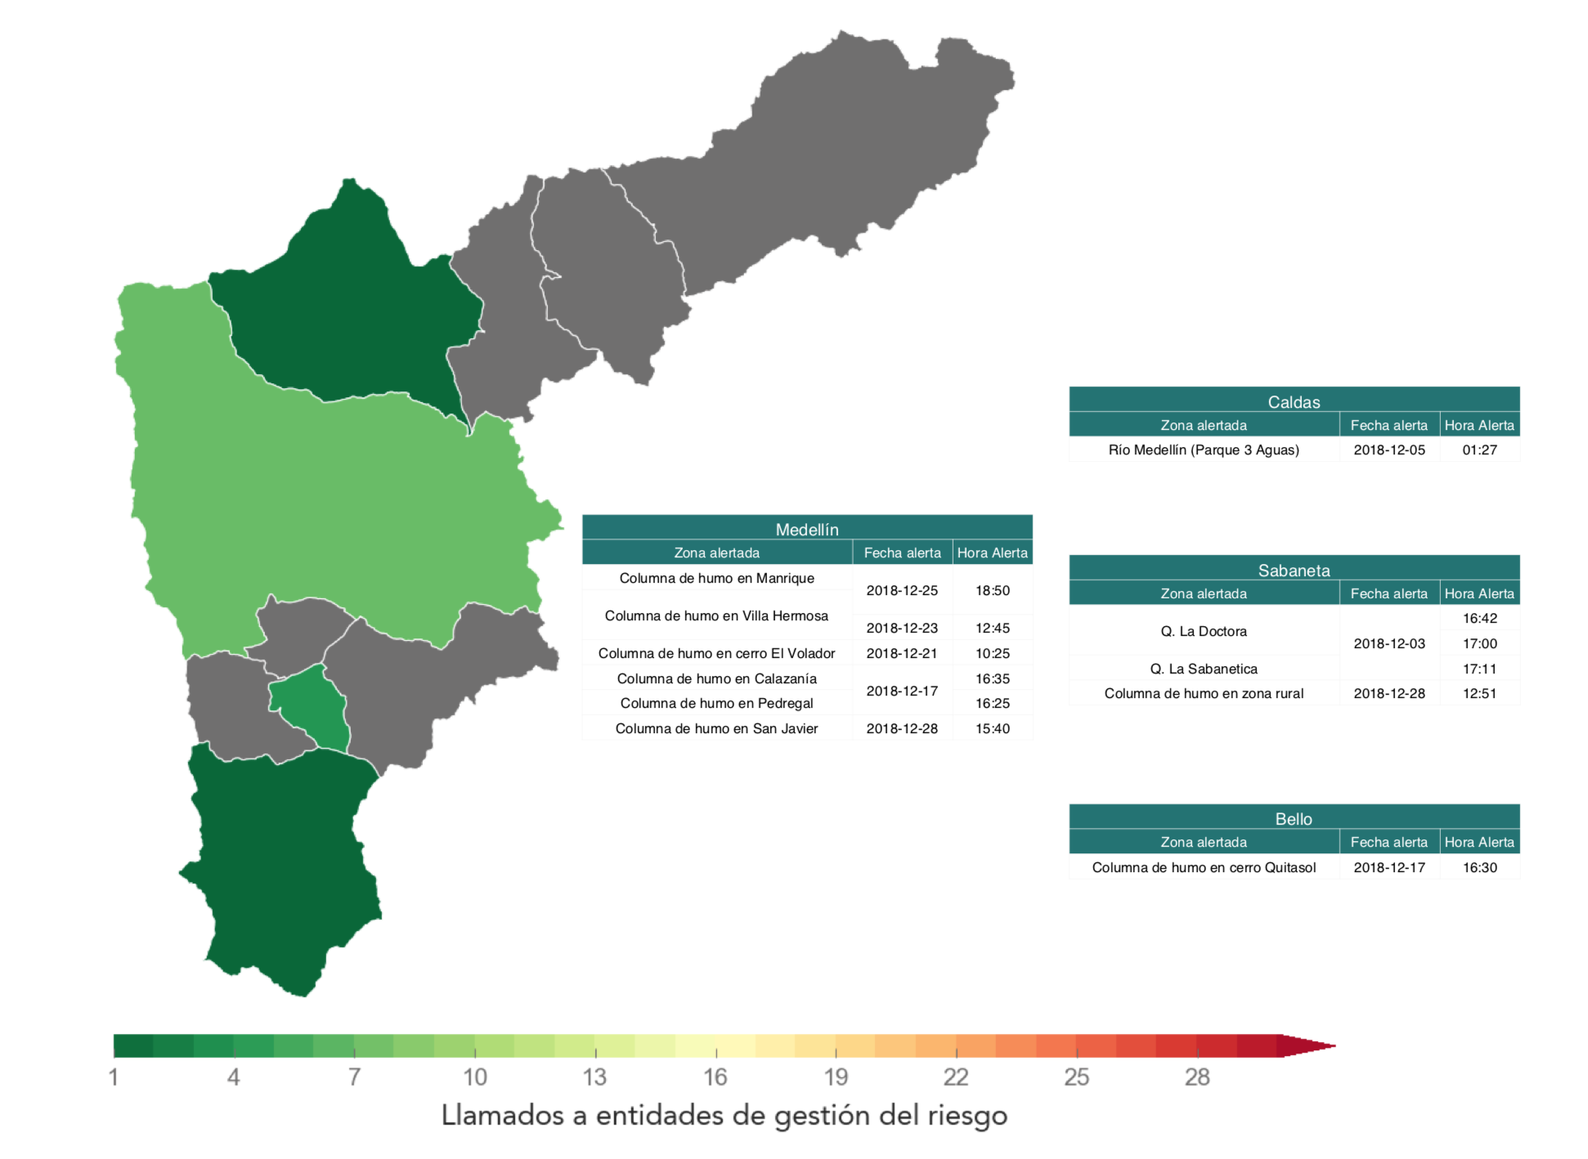
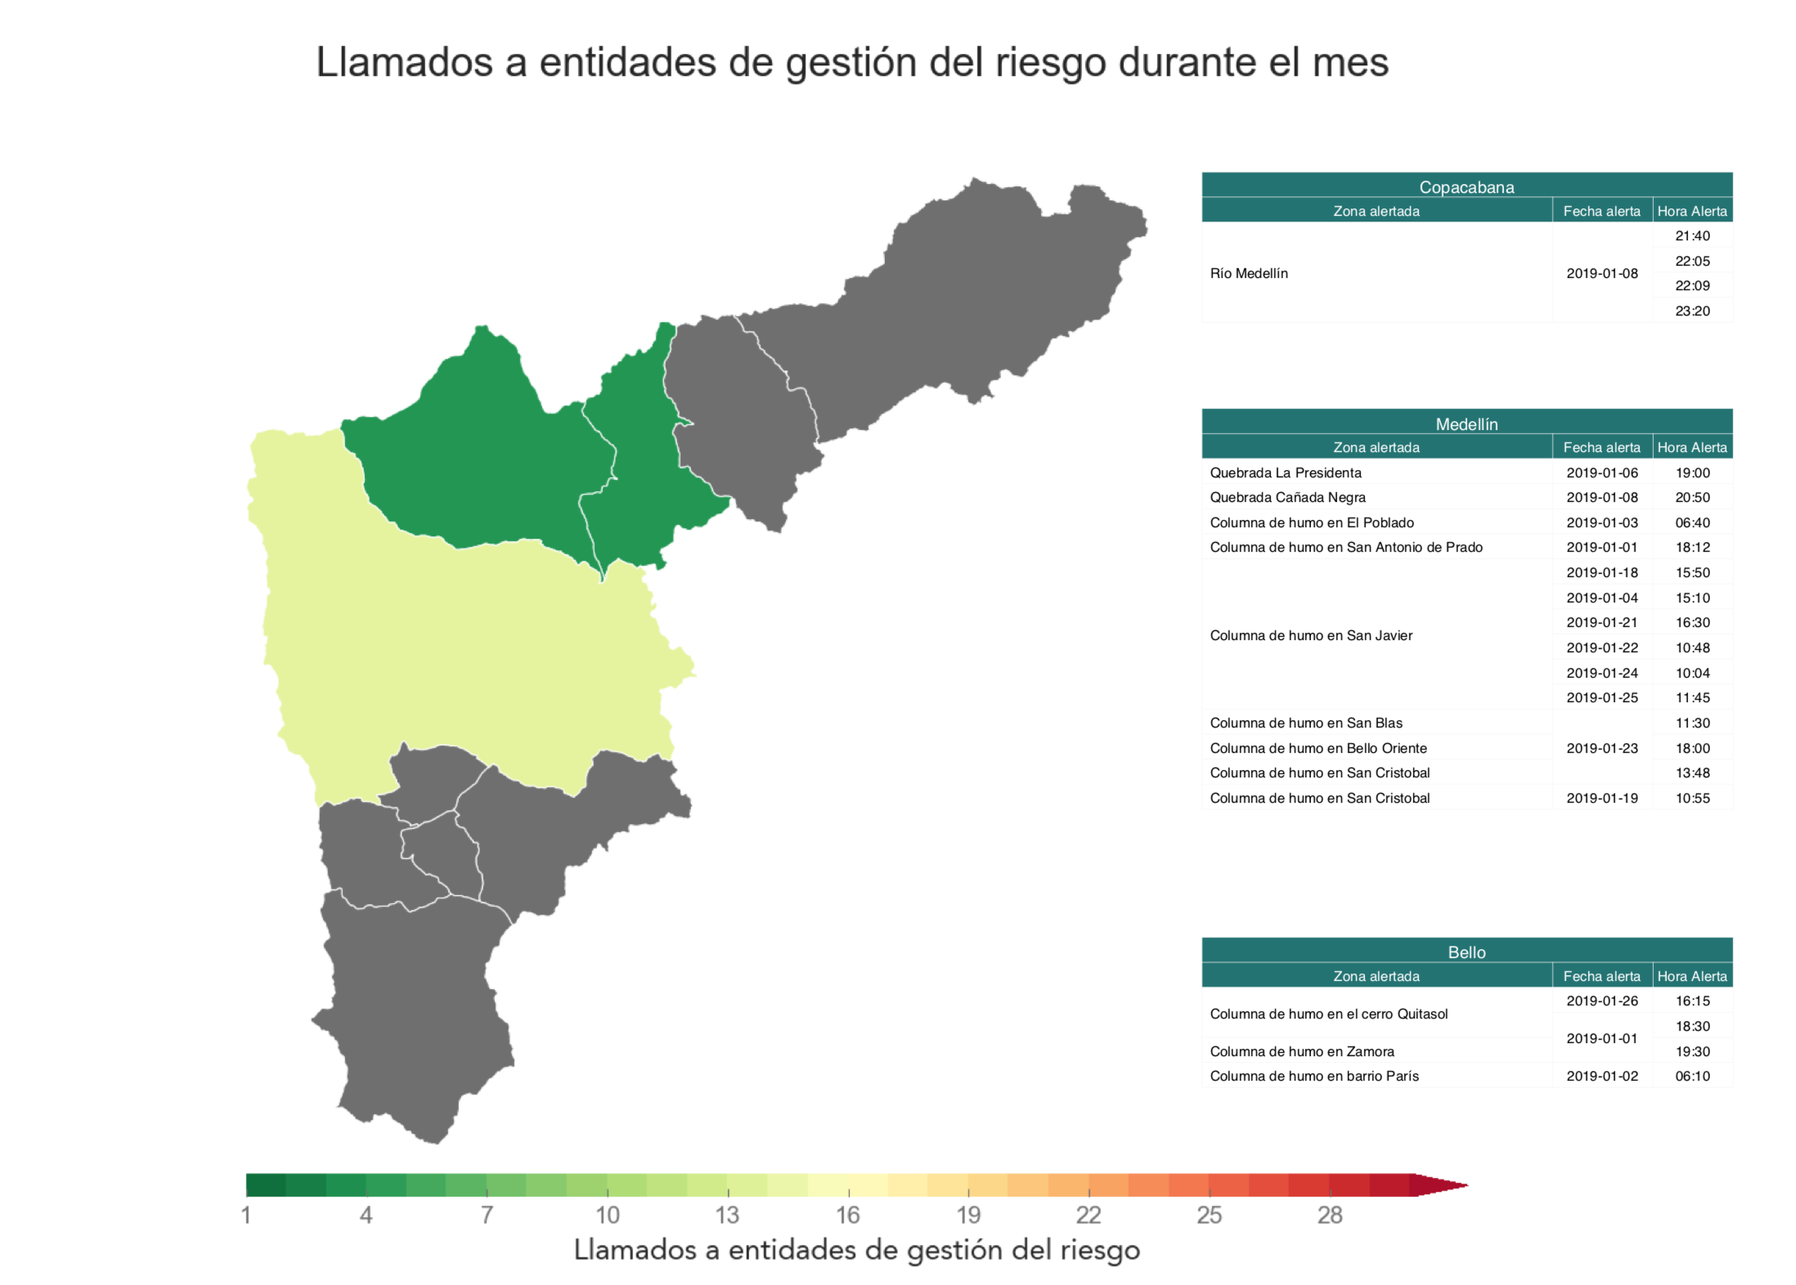
January report

diff --git a/Informe/Mapa123.py b/Informe/Mapa123.py
@@ -326,14 +326,15 @@ JuanMariposo.setFont("Avenir", 24)
 
 # ==============================================================================
 # December 2018
-barbosa = [['Barbosa',                               '',             ],
-           ['Zona alertada',                         'Fecha alerta', 'Hora Alerta' ],
+barbosa = [['Barbosa',                                             '',            ''             ],
+           ['Zona alertada',                                       'Fecha alerta', 'Hora Alerta' ],
           ]
 
-BAR =Table(barbosa,[2.7*inch,1.*inch,0.8*inch], len(barbosa)*[0.25*inch])
+BAR =Table(barbosa,[3.5*inch,1.*inch,0.8*inch], len(barbosa)*[0.25*inch])
 BAR.setStyle(TableStyle([('INNERGRID', (0,0), (-1,-1), 0.25, gris),\
                         ('BOX',       (0,0), (-1,-1), 0.25, gris),\
                         ('ALIGN',     (0,0),(-1,-1),'CENTER'),\
+                        ('ALIGN',     (0,2),(0,-1),'LEFT'),\
                         # ('VALIGN',   (0,0),(-1,-1),'MIDDLE'),\
                         ('VALIGN',    (0,0),(-1,-1),'TOP'),\
                         ('VALIGN',    (0,0),(-1,1),'TOP'),\
@@ -349,14 +350,15 @@ BAR.setStyle(TableStyle([('INNERGRID', (0,0), (-1,-1), 0.25, gris),\
 
 # ==============================================================================
 # December 2018
-girardota = [['Girardota',                           '',             ],
-             ['Zona alertada',                         'Fecha alerta', 'Hora Alerta' ],
+girardota = [['Girardota',                                           '',             ''            ],
+             ['Zona alertada',                                       'Fecha alerta', 'Hora Alerta' ],
            ]
 
-GIR =Table(girardota,[2.7*inch,1.*inch,0.8*inch], len(girardota)*[0.25*inch])
+GIR =Table(girardota,[3.5*inch,1.*inch,0.8*inch], len(girardota)*[0.25*inch])
 GIR.setStyle(TableStyle([('INNERGRID', (0,0), (-1,-1), 0.25, gris),\
                         ('BOX',       (0,0), (-1,-1), 0.25, gris),\
                         ('ALIGN',     (0,0),(-1,-1),'CENTER'),\
+                        ('ALIGN',     (0,2),(0,-1),'LEFT'),\
                         # ('VALIGN',   (0,0),(-1,-1),'MIDDLE'),\
                         ('VALIGN',    (0,0),(-1,-1),'TOP'),\
                         ('VALIGN',    (0,0),(-1,1),'TOP'),\
@@ -370,76 +372,20 @@ GIR.setStyle(TableStyle([('INNERGRID', (0,0), (-1,-1), 0.25, gris),\
 # ==============================================================================
 
 # December 2018
-copacabana = [['Copacabana',                            '',             ],
-              ['Zona alertada',                         'Fecha alerta', 'Hora Alerta' ],
+copacabana = [['Copacabana',                                          '',              ''           ],
+              ['Zona alertada',                                       'Fecha alerta', 'Hora Alerta' ],
+              [u'Río Medellín'                                       ,'2019-01-08'  , '21:40'       ],
+              [u'Río Medellín'                                       ,'2019-01-08'  , '22:05'       ],
+              [u'Río Medellín'                                       ,'2019-01-08'  , '22:09'       ],
+              [u'Río Medellín'                                       ,'2019-01-08'  , '23:20'       ],
              ]
 
 
-COP =Table(copacabana,[2.7*inch,1.*inch,0.8*inch], len(copacabana)*[0.25*inch])
+COP =Table(copacabana,[3.5*inch,1.*inch,0.8*inch], len(copacabana)*[0.25*inch])
 COP.setStyle(TableStyle([('INNERGRID', (0,0), (-1,-1), 0.25, gris),\
                         ('BOX',       (0,0), (-1,-1), 0.25, gris),\
                         ('ALIGN',     (0,0),(-1,-1),'CENTER'),\
-                        # ('VALIGN',   (0,0),(-1,-1),'MIDDLE'),\
-                        ('VALIGN',    (0,0),(-1,-1),'TOP'),\
-                        ('VALIGN',    (0,0),(-1,1),'TOP'),\
-                        ('FONTSIZE',  (0,0),(-1, 1), 12),\
-                        ('BACKGROUND',(0,0),(-1,1),ColorInfo6),\
-                        ('FONTSIZE',  (0,1),(-1,-1), 10),\
-                        ('TEXTCOLOR', (0,0),(-1,1),color.white),\
-                        ('SPAN',      (0,0), (-1,0)),\
-                        ]))
-
-# ==============================================================================
-
-# December 2018
-bello = [['Bello',                                 '',             ],
-         ['Zona alertada',                         'Fecha alerta', 'Hora Alerta' ],
-         [u'Columna de humo en cerro Quitasol'    ,'2018-12-17'  , '16:30'     ],
-        ]
-
-
-
-BEL =Table(bello,[2.7*inch,1.*inch,0.8*inch], len(bello)*[0.25*inch])
-BEL.setStyle(TableStyle([('INNERGRID', (0,0), (-1,-1), 0.25, gris),\
-                        ('BOX',       (0,0), (-1,-1), 0.25, gris),\
-                        ('ALIGN',     (0,0),(-1,-1),'CENTER'),\
-                        # ('VALIGN',   (0,0),(-1,-1),'MIDDLE'),\
-                        ('VALIGN',    (0,0),(-1,-1),'TOP'),\
-                        ('VALIGN',    (0,0),(-1,1),'TOP'),\
-                        ('FONTSIZE',  (0,0),(-1, 1), 12),\
-                        ('BACKGROUND',(0,0),(-1,1),ColorInfo6),\
-                        ('FONTSIZE',  (0,1),(-1,-1), 10),\
-                        ('TEXTCOLOR', (0,0),(-1,1),color.white),\
-                        ('SPAN',      (0,0), (-1,0)),\
-                        # # Zona
-                        # ('SPAN',   (0,2), (0,3)),\
-                        # ('VALIGN', (0,2), (0,3),'MIDDLE'),\
-                        # # fecha
-                        # ('SPAN',   (1,3), (1,6)),\
-                        # ('VALIGN', (1,3), (1,6),'MIDDLE'),\
-                        # # Hora
-                        # ('SPAN',   (2,3), (2,5)),\
-                        # ('VALIGN', (2,3), (2,5),'MIDDLE'),\
-                        ]))
-
-
-# ==============================================================================
-# December 2018
-medellin = [[u'Medellín',                            '',             ],
-            ['Zona alertada',                         'Fecha alerta', 'Hora Alerta' ],
-            [u'Columna de humo en Manrique'          ,'2018-12-25'  , '18:50'     ],
-            [u'Columna de humo en Villa Hermosa'     ,'2018-12-25'  , '18:50'     ],
-            [u'Columna de humo en Villa Hermosa'     ,'2018-12-23'  , '12:45'     ],
-            [u'Columna de humo en cerro El Volador'  ,'2018-12-21'  , '10:25'     ],
-            [u'Columna de humo en Calazanía'         ,'2018-12-17'  , '16:35'     ],
-            [u'Columna de humo en Pedregal'          ,'2018-12-17'  , '16:25'     ],
-            [u'Columna de humo en San Javier'        ,'2018-12-28'  , '15:40'     ],
-           ]
-
-MED =Table(medellin,[2.7*inch,1.*inch,0.8*inch], len(medellin)*[0.25*inch])
-MED.setStyle(TableStyle([('INNERGRID', (0,0), (-1,-1), 0.25, gris),\
-                        ('BOX',       (0,0), (-1,-1), 0.25, gris),\
-                        ('ALIGN',     (0,0),(-1,-1),'CENTER'),\
+                        ('ALIGN',     (0,2),(0,-1),'LEFT'),\
                         # ('VALIGN',   (0,0),(-1,-1),'MIDDLE'),\
                         ('VALIGN',    (0,0),(-1,-1),'TOP'),\
                         ('VALIGN',    (0,0),(-1,1),'TOP'),\
@@ -449,29 +395,110 @@ MED.setStyle(TableStyle([('INNERGRID', (0,0), (-1,-1), 0.25, gris),\
                         ('TEXTCOLOR', (0,0),(-1,1),color.white),\
                         ('SPAN',      (0,0), (-1,0)),\
                         # Zona
-                        ('SPAN',   (0,3), (0,4)),\
-                        ('VALIGN', (0,3), (0,4),'MIDDLE'),\
+                        ('SPAN',   (0,2), (0,5)),\
+                        ('VALIGN', (0,2), (0,5),'MIDDLE'),\
                         # fecha
-                        ('SPAN',   (1,2), (1,3)),\
-                        ('VALIGN', (1,2), (1,3),'MIDDLE'),\
-                        ('SPAN',   (1,6), (1,7)),\
-                        ('VALIGN', (1,6), (1,7),'MIDDLE'),\
+                        ('SPAN',   (1,2), (1,5)),\
+                        ('VALIGN', (1,2), (1,5),'MIDDLE'),\
+                        ]))
+
+# ==============================================================================
+
+# December 2018
+bello = [['Bello',                                               '',             ],
+         ['Zona alertada',                                       'Fecha alerta', 'Hora Alerta' ],
+         [u'Columna de humo en el cerro Quitasol'               ,'2019-01-26'  , '16:15'       ],
+         [u'Columna de humo en el cerro Quitasol'               ,'2019-01-01'  , '18:30'       ],
+         [u'Columna de humo en Zamora'                          ,'2019-01-01'  , '19:30'       ],
+         [u'Columna de humo en barrio París'                    ,'2019-01-02'  , '06:10'       ],
+        ]
+
+
+
+BEL =Table(bello,[3.5*inch,1.*inch,0.8*inch], len(bello)*[0.25*inch])
+BEL.setStyle(TableStyle([('INNERGRID', (0,0), (-1,-1), 0.25, gris),\
+                        ('BOX',       (0,0), (-1,-1), 0.25, gris),\
+                        ('ALIGN',     (0,0),(-1,-1),'CENTER'),\
+                        ('ALIGN',     (0,2),(0,-1),'LEFT'),\
+                        # ('VALIGN',   (0,0),(-1,-1),'MIDDLE'),\
+                        ('VALIGN',    (0,0),(-1,-1),'TOP'),\
+                        ('VALIGN',    (0,0),(-1,1),'TOP'),\
+                        ('FONTSIZE',  (0,0),(-1, 1), 12),\
+                        ('BACKGROUND',(0,0),(-1,1),ColorInfo6),\
+                        ('FONTSIZE',  (0,1),(-1,-1), 10),\
+                        ('TEXTCOLOR', (0,0),(-1,1),color.white),\
+                        ('SPAN',      (0,0), (-1,0)),\
+                        # Zona
+                        ('SPAN',   (0,2), (0,3)),\
+                        ('VALIGN', (0,2), (0,3),'MIDDLE'),\
+                        # fecha
+                        ('SPAN',   (1,3), (1,4)),\
+                        ('VALIGN', (1,3), (1,4),'MIDDLE'),\
+                        # # Hora
+                        # ('SPAN',   (2,3), (2,5)),\
+                        # ('VALIGN', (2,3), (2,5),'MIDDLE'),\
+                        ]))
+
+
+# ==============================================================================
+# December 2018
+medellin = [[u'Medellín',                                           '',                           ],
+            ['Zona alertada',                                       'Fecha alerta', 'Hora Alerta' ],
+            [u'Quebrada La Presidenta'                             ,'2019-01-06'  , '19:00'       ],
+            [u'Quebrada Cañada Negra'                              ,'2019-01-08'  , '20:50'       ],
+            [u'Columna de humo en El Poblado'                      ,'2019-01-03'  , '06:40'       ],
+            [u'Columna de humo en San Antonio de Prado'            ,'2019-01-01'  , '18:12'       ],
+            [u'Columna de humo en San Javier'                      ,'2019-01-18'  , '15:50'       ],
+            [u'Columna de humo en San Javier'                      ,'2019-01-04'  , '15:10'       ],
+            [u'Columna de humo en San Javier '                     ,'2019-01-21'  , '16:30'       ],
+            [u'Columna de humo en San Javier '                     ,'2019-01-22'  , '10:48'       ],
+            [u'Columna de humo en San Javier '                     ,'2019-01-24'  , '10:04'       ],
+            [u'Columna de humo en San Javier '                     ,'2019-01-25'  , '11:45'       ],
+            [u'Columna de humo en San Blas'                        ,'2019-01-23'  , '11:30'       ],
+            [u'Columna de humo en Bello Oriente'                   ,'2019-01-23'  , '18:00'       ],
+            [u'Columna de humo en San Cristobal'                   ,'2019-01-23'  , '13:48'       ],
+            [u'Columna de humo en San Cristobal'                   ,'2019-01-19'  , '10:55'       ],
+
+           ]
+
+MED =Table(medellin,[3.5*inch,1.*inch,0.8*inch], len(medellin)*[0.25*inch])
+MED.setStyle(TableStyle([('INNERGRID', (0,0), (-1,-1), 0.25, gris),\
+                        ('BOX',       (0,0), (-1,-1), 0.25, gris),\
+                        ('ALIGN',     (0,0),(-1,-1),'CENTER'),\
+                        ('ALIGN',     (0,2),(0,-1),'LEFT'),\
+                        # ('VALIGN',   (0,0),(-1,-1),'MIDDLE'),\
+                        ('VALIGN',    (0,0),(-1,-1),'TOP'),\
+                        ('VALIGN',    (0,0),(-1,1),'TOP'),\
+                        ('FONTSIZE',  (0,0),(-1, 1), 12),\
+                        ('BACKGROUND',(0,0),(-1,1),ColorInfo6),\
+                        ('FONTSIZE',  (0,1),(-1,-1), 10),\
+                        ('TEXTCOLOR', (0,0),(-1,1),color.white),\
+                        ('SPAN',      (0,0), (-1,0)),\
+                        # Zona
+                        ('SPAN',   (0,6), (0,11)),\
+                        ('VALIGN', (0,6), (0,11),'MIDDLE'),\
+                        ('SPAN',   (0,15), (0,15)),\
+                        ('VALIGN', (0,15), (0,15),'MIDDLE'),\
+                        # fecha
+                        ('SPAN',   (1,12), (1,14)),\
+                        ('VALIGN', (1,12), (1,14),'MIDDLE'),\
                         # Hora
-                        ('SPAN',   (2,2), (2,3)),\
-                        ('VALIGN', (2,2), (2,3),'MIDDLE'),\
+                        # ('SPAN',   (2,2), (2,3)),\
+                        # ('VALIGN', (2,2), (2,3),'MIDDLE'),\
                         ]))
 
 # ==============================================================================
 # December 2018
-itagui = [[u'Itagüí',                               '',             ],
-          ['Zona alertada',                         'Fecha alerta','Hora Alerta'],
+itagui = [[u'Itagüí',                                             '',             ''            ],
+          ['Zona alertada',                                       'Fecha alerta', 'Hora Alerta' ],
          ]
 
 
-ITA =Table(itagui,[2.7*inch,1.*inch,0.8*inch], len(itagui)*[0.25*inch])
+ITA =Table(itagui,[3.5*inch,1.*inch,0.8*inch], len(itagui)*[0.25*inch])
 ITA.setStyle(TableStyle([('INNERGRID', (0,0), (-1,-1), 0.25, gris),\
                         ('BOX',       (0,0), (-1,-1), 0.25, gris),\
                         ('ALIGN',     (0,0),(-1,-1),'CENTER'),\
+                        ('ALIGN',     (0,2),(0,-1),'LEFT'),\
                         # ('VALIGN',   (0,0),(-1,-1),'MIDDLE'),\
                         ('VALIGN',    (0,0),(-1,-1),'TOP'),\
                         ('VALIGN',    (0,0),(-1,1),'TOP'),\
@@ -493,14 +520,15 @@ ITA.setStyle(TableStyle([('INNERGRID', (0,0), (-1,-1), 0.25, gris),\
 
 # ==============================================================================
 # December 2018
-envigado = [['Envigado',                           '',             ],
-            [u'Zona alertada',                        'Fecha alerta', 'Hora Alerta' ],
+envigado = [['Envigado',                                            '',             ''            ],
+            ['Zona alertada',                                       'Fecha alerta', 'Hora Alerta' ],
            ]
 
-ENV =Table(envigado,[2.7*inch,1.*inch,0.8*inch], len(envigado)*[0.25*inch])
+ENV =Table(envigado,[3.5*inch,1.*inch,0.8*inch], len(envigado)*[0.25*inch])
 ENV.setStyle(TableStyle([('INNERGRID', (0,0), (-1,-1), 0.25, gris),\
                         ('BOX',       (0,0), (-1,-1), 0.25, gris),\
                         ('ALIGN',     (0,0),(-1,-1),'CENTER'),\
+                        ('ALIGN',     (0,2),(0,-1),'LEFT'),\
                         # ('VALIGN',   (0,0),(-1,-1),'MIDDLE'),\
                         ('VALIGN',    (0,0),(-1,-1),'TOP'),\
                         ('VALIGN',    (0,0),(-1,1),'TOP'),\
@@ -513,15 +541,16 @@ ENV.setStyle(TableStyle([('INNERGRID', (0,0), (-1,-1), 0.25, gris),\
 
 # ==============================================================================
 # December 2018
-laestrella = [['La Esrella',                           '',             ],
-              ['Zona alertada',                         'Fecha alerta', 'Hora Alerta' ],
+laestrella = [['La Esrella',                                          '',             ''            ],
+              ['Zona alertada',                                       'Fecha alerta', 'Hora Alerta' ],
              ]
 
 
-STR =Table(laestrella,[2.7*inch,1.*inch,0.8*inch], len(laestrella)*[0.25*inch])
+STR =Table(laestrella,[3.5*inch,1.*inch,0.8*inch], len(laestrella)*[0.25*inch])
 STR.setStyle(TableStyle([('INNERGRID', (0,0), (-1,-1), 0.25, gris),\
                         ('BOX',       (0,0), (-1,-1), 0.25, gris),\
                         ('ALIGN',     (0,0),(-1,-1),'CENTER'),\
+                        ('ALIGN',     (0,2),(0,-1),'LEFT'),\
                         # ('VALIGN',   (0,0),(-1,-1),'MIDDLE'),\
                         ('VALIGN',    (0,0),(-1,-1),'TOP'),\
                         ('VALIGN',    (0,0),(-1,1),'TOP'),\
@@ -540,19 +569,16 @@ STR.setStyle(TableStyle([('INNERGRID', (0,0), (-1,-1), 0.25, gris),\
 
 # ==============================================================================
 # December 2018
-sabaneta = [[u'Sabaneta',                           '',             ],
-            ['Zona alertada',                         'Fecha alerta','Hora Alerta' ],
-            [u'Q. La Doctora'                        ,'2018-12-03'  , '16:42'     ],
-            [u'Q. La Doctora'                        ,'2018-12-03'  , '17:00'     ],
-            [u'Q. La Sabanetica'                     ,'2018-12-03'  , '17:11'     ],
-            [u'Columna de humo en zona rural'        ,'2018-12-28'  , '12:51'     ],
+sabaneta = [[u'Sabaneta',                                           '',             ''            ],
+            ['Zona alertada',                                       'Fecha alerta', 'Hora Alerta' ],
            ]
 
 
-SAB =Table(sabaneta,[2.7*inch,1.*inch,0.8*inch], len(sabaneta)*[0.25*inch])
+SAB =Table(sabaneta,[3.5*inch,1.*inch,0.8*inch], len(sabaneta)*[0.25*inch])
 SAB.setStyle(TableStyle([('INNERGRID', (0,0), (-1,-1), 0.25, gris),\
                         ('BOX',       (0,0), (-1,-1), 0.25, gris),\
                         ('ALIGN',     (0,0),(-1,-1),'CENTER'),\
+                        ('ALIGN',     (0,2),(0,-1),'LEFT'),\
                         # ('VALIGN',   (0,0),(-1,-1),'MIDDLE'),\
                         ('VALIGN',    (0,0),(-1,-1),'TOP'),\
                         ('VALIGN',    (0,0),(-1,1),'TOP'),\
@@ -561,12 +587,12 @@ SAB.setStyle(TableStyle([('INNERGRID', (0,0), (-1,-1), 0.25, gris),\
                         ('FONTSIZE',  (0,1),(-1,-1), 10),\
                         ('TEXTCOLOR', (0,0),(-1,1),color.white),\
                         ('SPAN',      (0,0), (-1,0)),\
-                        # Zona
-                        ('SPAN',   (0,2), (0,3)),\
-                        ('VALIGN', (0,2), (0,3),'MIDDLE'),\
-                        # fecha
-                        ('SPAN',   (1,2), (1,4)),\
-                        ('VALIGN', (1,2), (1,4),'MIDDLE'),\
+                        # # Zona
+                        # ('SPAN',   (0,2), (0,3)),\
+                        # ('VALIGN', (0,2), (0,3),'MIDDLE'),\
+                        # # fecha
+                        # ('SPAN',   (1,2), (1,4)),\
+                        # ('VALIGN', (1,2), (1,4),'MIDDLE'),\
                         # Hora
                         # ('SPAN',   (2,3), (2,4)),\
                         # ('VALIGN', (2,3), (2,4),'MIDDLE'),\
@@ -574,16 +600,16 @@ SAB.setStyle(TableStyle([('INNERGRID', (0,0), (-1,-1), 0.25, gris),\
 
 # ==============================================================================
 # December 2018
-caldas = [['Caldas',                                '',             ],
-          ['Zona alertada',                         'Fecha alerta','Hora Alerta' ],
-          [u'Río Medellín (Parque 3 Aguas)'        ,'2018-12-05'  , '01:27'     ],
+caldas = [['Caldas',                                              '',             ''            ],
+          ['Zona alertada',                                       'Fecha alerta', 'Hora Alerta' ],
          ]
 
 
-CAL =Table(caldas,[2.7*inch,1.*inch,0.8*inch], len(caldas)*[0.25*inch])
+CAL =Table(caldas,[3.5*inch,1.*inch,0.8*inch], len(caldas)*[0.25*inch])
 CAL.setStyle(TableStyle([('INNERGRID', (0,0), (-1,-1), 0.25, gris),\
                         ('BOX',       (0,0), (-1,-1), 0.25, gris),\
                         ('ALIGN',     (0,0),(-1,-1),'CENTER'),\
+                        ('ALIGN',     (0,2),(0,-1),'LEFT'),\
                         # ('VALIGN',   (0,0),(-1,-1),'MIDDLE'),\
                         ('VALIGN',    (0,0),(-1,-1),'TOP'),\
                         ('VALIGN',    (0,0),(-1,1),'TOP'),\
@@ -625,24 +651,25 @@ JuanMariposo.drawImage(Path_figures+'123.png', \
 
 # BAR.wrapOn(JuanMariposo, 600, 900)
 # GIR.wrapOn(JuanMariposo, 600, 900)
-# COP.wrapOn(JuanMariposo, 600, 900)
+COP.wrapOn(JuanMariposo, 600, 900)
 BEL.wrapOn(JuanMariposo, 600, 900)
 MED.wrapOn(JuanMariposo, 600, 900)
 # ITA.wrapOn(JuanMariposo, 600, 900)
 # ENV.wrapOn(JuanMariposo, 600, 900)
 # STR.wrapOn(JuanMariposo, 600, 900)
-SAB.wrapOn(JuanMariposo, 600, 900)
-CAL.wrapOn(JuanMariposo, 600, 900)
+# SAB.wrapOn(JuanMariposo, 600, 900)
+# CAL.wrapOn(JuanMariposo, 600, 900)
 
-MED.drawOn(JuanMariposo,  775.,  500.)
-BEL.drawOn(JuanMariposo, 1125.,  400.)
-SAB.drawOn(JuanMariposo, 1125.,  525.)
+# MED.drawOn(JuanMariposo,  775.,  500.)
+MED.drawOn(JuanMariposo, 1125.,  550.)
+BEL.drawOn(JuanMariposo, 1125.,  350.)
+# SAB.drawOn(JuanMariposo, 1125.,  525.)
 # ENV.drawOn(JuanMariposo, 1125., 840.)
-# COP.drawOn(JuanMariposo, 1125.,  975.)
+COP.drawOn(JuanMariposo, 1125.,  900.)
 # STR.drawOn(JuanMariposo,  400., 1050.)
 # BAR.drawOn(JuanMariposo, 1125., 1050.)
 # ITA.drawOn(JuanMariposo, 1125.,  825.)
-CAL.drawOn(JuanMariposo, 1125.,  700.)
+# CAL.drawOn(JuanMariposo, 1125.,  700.)
 
 JuanMariposo.save()
 
